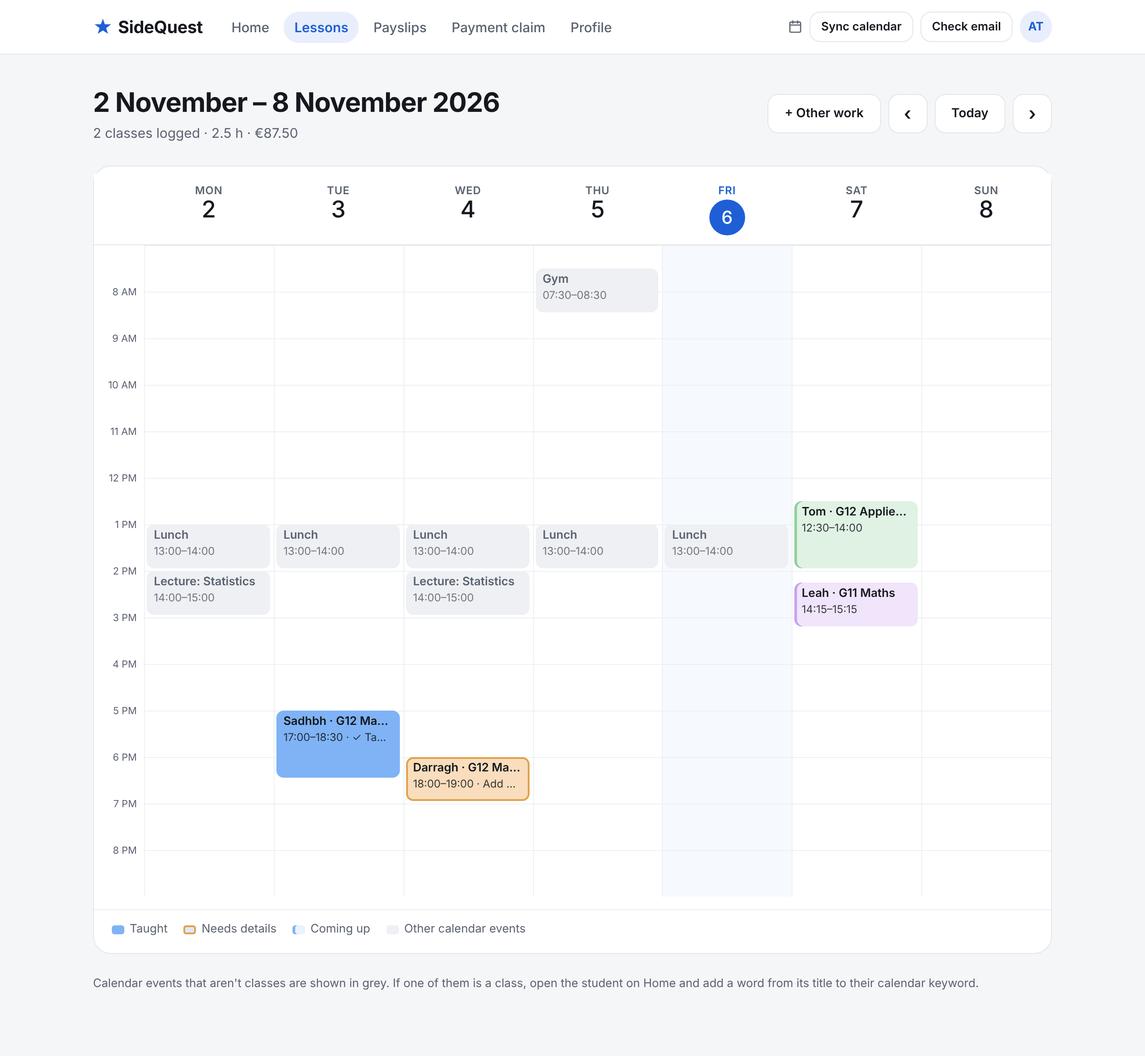
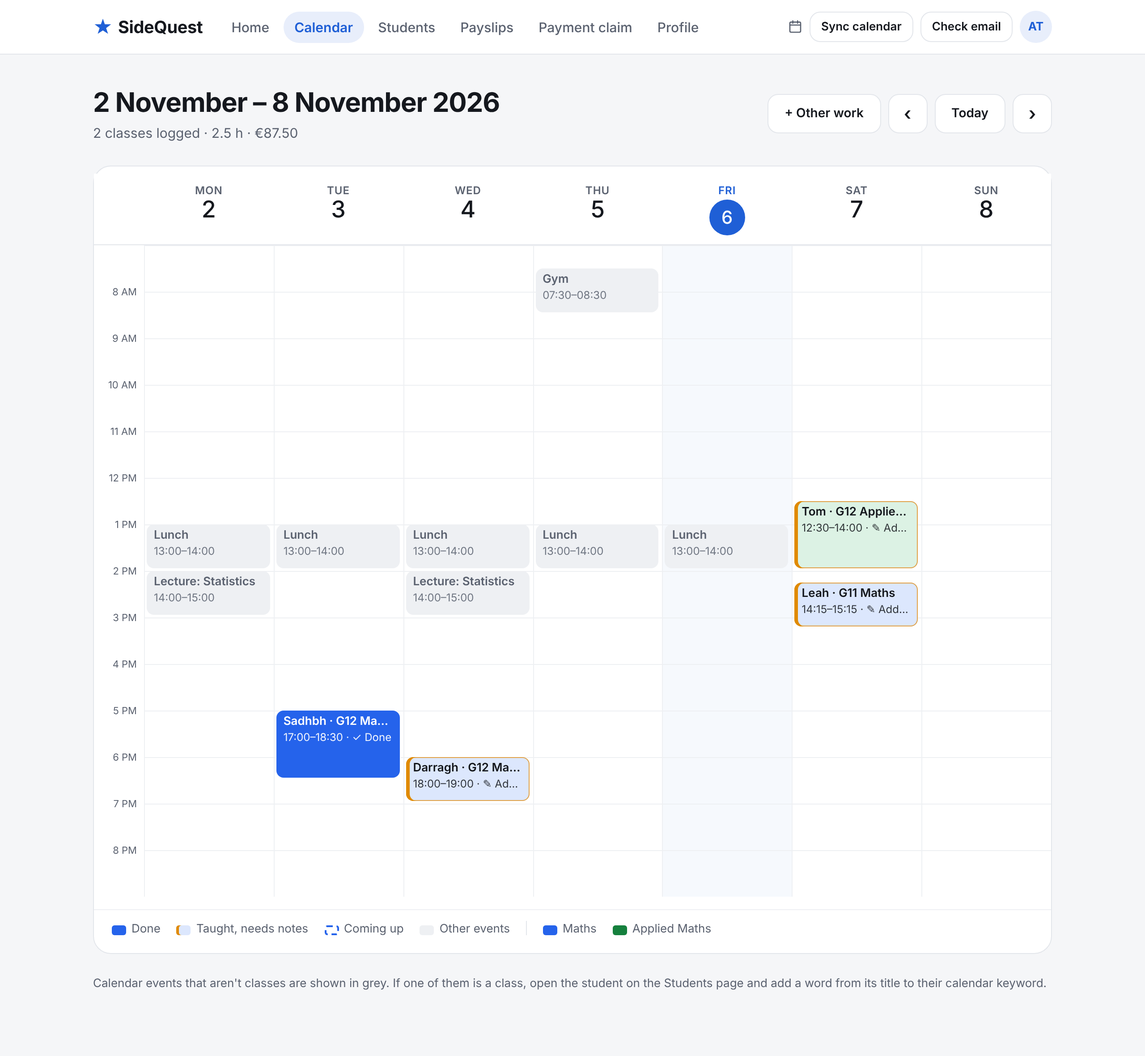
Fix two-subject matching, payslip PDF search, repeating to-dos; Calendar and Students tabs; subject colours
- Weekly email lines for a student taking two subjects now match the right subject
- Admin-paid items you didn't log get an 'Add it to my lessons' button
- Find old payslip PDFs searches every email with a payslip PDF and reports months
- Package reminders are created once; existing duplicates are removed
- Lessons renamed to Calendar; Students has its own tab
- Calendar colours by subject; done / needs notes / coming up are clearly different
- Homework, to-do and description boxes grow as you type

Claude-Session: https://claude.ai/code/session_01XxMEUz4XwJvpnkHxQYktTi

diff --git a/src/web/app.js b/src/web/app.js
@@ -128,14 +128,15 @@ function packageAlerts() {
     .filter(x => x.p && x.p.left >= 0 && (x.p.lastDate ? x.p.lastDate <= L.addDays(TODAY, 7) : x.p.left <= 1));
 }
 // Package ending soon → two real, tickable to-dos (created once per package)
-let pkgSyncing = false;
+let pkgSyncing = false; const pkgMade = new Set(); // never create the same reminder twice, even before the Sheet answers
 async function ensurePackageTodos() {
   if (pkgSyncing || !loaded) return; pkgSyncing = true;
   for (const { s, p } of packageAlerts()) {
     const when = p.lastDate ? `last class ${fmtD(p.lastDate, { weekday: "short", day: "numeric", month: "short" })}` : p.left ? "1 lesson left" : "package finished";
     for (const [k, text] of [["exam", `Prepare an exam for ${s.name} (${s.subject.replace(/\s*\(H\)/, "")})`], ["report", `Write ${s.name}'s student report`]]) {
       const key = `${k}-${p.key}`;
-      if (!S.todos.some(t => t.key === key)) await save("todos", "auto-" + uid(), { text: `${text} · ${when}`, done: false, createdAt: new Date().toISOString(), key });
+      if (pkgMade.has(key) || S.todos.some(t => t.key === key)) continue;
+      pkgMade.add(key); await save("todos", "auto-" + uid(), { text: `${text} · ${when}`, done: false, createdAt: new Date().toISOString(), key });
     }
   }
   pkgSyncing = false;
@@ -143,7 +144,11 @@ async function ensurePackageTodos() {
 function todos() {
   const out = [];
   CAL.orphans.forEach(id => { const l = S.lessons.find(x => x.id === id); if (l) out.push({ id: "or-" + id, act: "open", lid: id, title: `${nameOf(l)}'s ${fmtD(l.date)} class is no longer in your calendar`, sub: "Was it cancelled or moved?", warn: true }); });
-  S.todos.filter(t => !t.done).sort((a, b) => String(b.createdAt).localeCompare(String(a.createdAt))).forEach(t => out.push({ id: "my-" + t.id, act: "mine", tid: t.id, title: t.text, sub: "Your to-do" }));
+  const seenTodo = new Set();
+  S.todos.filter(t => !t.done).sort((a, b) => String(a.createdAt).localeCompare(String(b.createdAt))).forEach(t => {
+    const k = t.key || t.text.trim().toLowerCase(); if (seenTodo.has(k)) return; seenTodo.add(k); // each to-do shows once
+    out.push({ id: "my-" + t.id, act: "mine", tid: t.id, title: t.text, sub: t.key ? "Package ending" : "Your to-do" });
+  });
   S.lessons.filter(l => l.followups && !l.followupsDone).sort((a, b) => b.date.localeCompare(a.date))
     .forEach(l => out.push({ id: "fu-" + l.id, act: "fudone", lid: l.id, title: l.followups.split("\n")[0], sub: `${nameOf(l)} · ${fmtD(l.date)}` }));
   S.lessons.filter(l => l.kind === "class" && l.date <= TODAY && l.date >= L.addDays(TODAY, -21) && !l.topic && !l.notes)
@@ -161,7 +166,7 @@ function render() {
   const main = $("#main");
   if (loadErr) { main.innerHTML = `<div class="card empty">SideQuest couldn't read your Sheet. ${esc(loadErr)}<br><button class="btn" data-act="reload">Try again</button></div>`; return; }
   if (!loaded) { main.innerHTML = `<div class="loading"><div class="sk big"></div><div class="sk"></div><div class="sk"></div></div>`; return; }
-  main.innerHTML = ({ home: vHome, lessons: vLessons, payslips: vPayslips, claim: vClaim, profile: vProfile })[view]();
+  main.innerHTML = ({ home: vHome, lessons: vLessons, students: vStudents, payslips: vPayslips, claim: vClaim, profile: vProfile })[view]();
   applyTheme(); growAll(main);
   if (loaded) setTimeout(ensurePackageTodos, 0);
 }
@@ -224,23 +229,31 @@ function vHome() {
   <section class="card"><div class="row-b"><h2>Pay periods</h2><div class="muted small">Earned ${eur(earned)} · Paid ${eur(paid)} · <b class="ink">Owed ${eur(earned - paid)}</b></div></div>
     <div class="periods">${strip}</div></section>
   <section class="split3">
-    <div class="card"><div class="row-b"><h2>Coming up</h2><button class="link" data-act="nav" data-v="lessons">All lessons</button></div>
+    <div class="card"><div class="row-b"><h2>Coming up</h2><button class="link" data-act="nav" data-v="lessons">Open calendar</button></div>
       ${up.length ? up.map(p => { const s = stu(p.studentId); return `<div class="li"><div class="date"><span>${dow(p.date)}</span><b>${+p.date.slice(8)}</b></div><div class="grow"><b>${esc(s?.name)} · ${esc((s?.subject || "").replace(/\s*\(H\)/, ""))}</b><div class="muted small">${esc(p.time)} · ${hrs(p.hours)}${nextNumber(p.studentId) && s?.pkgSize ? ` · lesson ${nextNumber(p.studentId)} of ${s.pkgSize}` : ""}</div></div><div class="num b">${eur(L.round2(p.hours * rateFor("class", p.date, p.studentId)))}</div></div>`; }).join("")
         : `<p class="empty">${CAL.error ? "Connect your calendar to see upcoming lessons." : "Nothing in your calendar for the next two weeks."}</p>`}</div>
     <div class="card"><div class="row-b"><h2>To do</h2>${allTd.length > td.length ? `<span class="muted small">${allTd.length - td.length} more</span>` : ""}</div>
-      <form class="addtodo" data-form="todo"><label for="newtodo" class="sr">New to-do</label><input id="newtodo" placeholder="Add your own to-do, e.g. Make an exam for Sadhbh" autocomplete="off"><button class="btn" type="submit">Add</button></form>
+      <form class="addtodo" data-form="todo"><label for="newtodo" class="sr">New to-do</label><textarea id="newtodo" rows="1" placeholder="Add your own to-do, e.g. Make an exam for Sadhbh"></textarea><button class="btn" type="submit">Add</button></form>
       ${td.length ? td.map(t => `<div class="li">${t.act === "fudone" || t.act === "mine" ? `<input type="checkbox" aria-label="Done" data-act="${t.act === "mine" ? "minedone" : "fudone"}" data-lid="${esc(t.lid || "")}" data-tid="${esc(t.tid || "")}">` : `<span class="dot ${t.warn ? "warn" : ""}" aria-hidden="true"></span>`}<button class="todo grow" data-act="todo" data-t="${esc(t.act)}" data-lid="${esc(t.lid || "")}" data-sid="${esc(t.sid || "")}" data-pid="${esc(t.pid || "")}"><b>${esc(t.title)}</b><br><span class="muted small">${esc(t.sub)}</span></button></div>`).join("")
         : `<p class="empty">All done.</p>`}
       <p class="muted small">Comes from your own to-dos, your notes' "To do after class", classes still missing notes, and exam + report reminders when a package is ending.</p></div>
-  </section>
-  ${studentsCard()}`;
+  </section>`;
 }
 
 // ---- Lessons: a calendar week like Google Calendar ----
 const WEEKS = {}; // monday → {events, error, loading}
 const HOUR_PX = 52;
-const COLORS = ["c1", "c2", "c3", "c4", "c5", "c6"];
-const colorOf = sid => COLORS[Math.max(0, S.students.findIndex(s => s.id === sid)) % COLORS.length];
+// One colour per subject (Maths blue, Applied Maths green, others after that), the same everywhere
+const COLORS = ["c1", "c3", "c2", "c4", "c5", "c6"];
+const subjectKey = sub => String(sub || "").toLowerCase().replace(/\(h\)|\(o\)|\bg\d+\b|\b1v1\b|leaving cert|junior cycle/g, "").replace(/\bmath\b/g, "maths").replace(/\s+/g, " ").trim() || "other";
+const subjectName = sub => subjectKey(sub).replace(/\b\w/g, c => c.toUpperCase());
+function subjectColor(sub) {
+  const k = subjectKey(sub);
+  if (k === "maths") return "c1"; if (k.includes("applied")) return "c3";
+  const others = [...new Set(S.students.map(s => subjectKey(s.subject)).filter(x => x !== "maths" && !x.includes("applied")))].sort();
+  return COLORS[2 + (Math.max(0, others.indexOf(k)) % 4)];
+}
+const colorOf = sid => subjectColor(stu(sid)?.subject);
 const toMin = t => { const [h, m] = String(t || "0:0").split(":").map(Number); return h * 60 + (m || 0); };
 const fromMin = m => `${String(Math.floor(m / 60)).padStart(2, "0")}:${String(m % 60).padStart(2, "0")}`;
 async function loadWeek(ws, force) {
@@ -288,9 +301,9 @@ function blockHtml(b, h0) {
   if (b.other) return `<div class="ev other" style="${pos}" title="${esc(b.title)}"><b>${esc(b.title)}</b><span>${tm}</span></div>`;
   const s = stu(b.studentId), l = b.lesson;
   const subj = esc((s?.subject || "").replace(/\s*\(H\)/, ""));
-  let state = "plan", note = "";
-  if (l) { state = l.kind === "cancelled" ? "cx" : (l.topic || l.notes || l.source === "history") ? "done" : "need"; note = l.kind === "cancelled" ? "Cancelled" : l.kind === "noshow" ? "No-show" : state === "need" ? "Add details" : "✓ Taught"; }
-  else if (hasStarted(b.planned)) { state = "need"; note = "Add details"; }
+  let state = "plan", note = "Coming up";
+  if (l) { state = l.kind === "cancelled" ? "cx" : (l.topic || l.notes || l.source === "history") ? "done" : "need"; note = l.kind === "cancelled" ? "Cancelled" : l.kind === "noshow" ? "✓ No-show" : state === "need" ? "✎ Add notes" : "✓ Done"; }
+  else if (hasStarted(b.planned)) { state = "need"; note = "✎ Add notes"; }
   const act = l ? `data-act="pick" data-lid="${l.id}"` : `data-act="pickplan" data-eid="${esc(b.planned.eventId)}"`;
   return `<button class="ev ${colorOf(b.studentId)} ${state}" style="${pos}" ${act}><b>${esc(s?.name || "?")} · ${subj}</b><span>${tm}${note ? " · " + note : ""}</span></button>`;
 }
@@ -303,6 +316,12 @@ function studentsCard() {
         <span class="muted small">${s.pkgSize ? `${d} of ${s.pkgSize} · ` : ""}${esc(s.subject.replace(/\s*\(H\)/, ""))}</span></button>`;
     }).join("")}</div>
   </section>`;
+}
+function vStudents() {
+  const inactive = S.students.filter(s => !s.active);
+  return `<div><h1>Students</h1><div class="muted">Click a student to see every class with your notes, or to change their details.</div></div>
+  ${studentsCard()}
+  ${inactive.length ? `<section class="card"><h2>Finished</h2><div class="studs">${inactive.map(s => `<button class="stud" data-act="student" data-sid="${s.id}"><b>${esc(s.name)}</b><span class="muted small">${esc(s.subject.replace(/\s*\(H\)/, ""))}</span></button>`).join("")}</div></section>` : ""}`;
 }
 function vLessons() {
   const we = L.addDays(weekStart, 6);
@@ -326,8 +345,8 @@ function vLessons() {
     </div></div></div>`;
   return `<div class="row-b"><div><h1>${title}</h1><div class="muted">${ls.length} class${ls.length === 1 ? "" : "es"} logged · ${hrs(sum(ls, l => +l.hours || 0))} · ${eur(sum(ls, L.amountOf))}${W.loading ? " · loading your calendar…" : W.error ? " · calendar not connected, showing usual times" : ""}</div></div>
     <div class="acts"><button class="btn" data-act="other">+ Other work</button><button class="btn sq" data-act="wk" data-n="-7" aria-label="Previous week">‹</button><button class="btn" data-act="wk" data-n="0">Today</button><button class="btn sq" data-act="wk" data-n="7" aria-label="Next week">›</button></div></div>
-  <section class="card flush">${grid}<div class="legend small muted"><span><i class="lg done"></i>Taught</span><span><i class="lg need"></i>Needs details</span><span><i class="lg plan"></i>Coming up</span><span><i class="lg other"></i>Other calendar events</span></div></section>
-  ${CAL.unmatched.length ? `<p class="muted small">Calendar events that aren't classes are shown in grey. If one of them is a class, open the student on Home and add a word from its title to their calendar keyword.</p>` : ""}`;
+  <section class="card flush">${grid}<div class="legend small muted"><span><i class="lg done c1"></i>Done</span><span><i class="lg need c1"></i>Taught, needs notes</span><span><i class="lg plan c1"></i>Coming up</span><span><i class="lg other"></i>Other events</span><span class="sep"></span>${[...new Set(S.students.filter(s => s.active).map(s => subjectKey(s.subject)))].map(k => { const s = S.students.find(x => subjectKey(x.subject) === k); return `<span><i class="lg done ${subjectColor(s.subject)}"></i>${esc(subjectName(s.subject))}</span>`; }).join("")}</div></section>
+  ${CAL.unmatched.length ? `<p class="muted small">Calendar events that aren't classes are shown in grey. If one of them is a class, open the student on the Students page and add a word from its title to their calendar keyword.</p>` : ""}`;
 }
 // A student's past classes, newest first, the way your Excel tabs show them
 function historyTable(sid, opts = {}) {
@@ -346,6 +365,7 @@ function panelModel() {
   if (!sel) return null;
   if (sel.lessonId) { const l = S.lessons.find(x => x.id === sel.lessonId); return l ? { ...l } : null; }
   if (sel.planned) { const p = sel.planned; return { studentId: p.studentId, date: p.date, time: p.time, hours: p.hours, rate: rateFor("class", p.date, p.studentId), kind: "", number: nextNumber(p.studentId), eventId: String(p.eventId).indexOf("slot-") === 0 ? "" : p.eventId, _new: true, _locked: !hasStarted(p) }; }
+  if (sel.fromLine) { const f = sel.fromLine; return { ...f, _new: true, _other: !f.studentId }; }
   if (sel.other) return { studentId: "", label: "", date: TODAY, time: "", hours: 1, rate: rateFor("meeting", TODAY), kind: "meeting", _new: true, _other: true };
   return null;
 }
@@ -364,15 +384,15 @@ function panel() {
   const status = isOther ? `<div class="f2">
       <label class="fld">Type<select id="p_kind">${OTHER_KINDS.map(k => `<option value="${k}" ${k === m.kind ? "selected" : ""}>${KINDS[k]}</option>`).join("")}</select></label>
       <label class="fld">Date<input id="p_date" type="date" value="${esc(m.date)}" max="${TODAY}"></label></div>
-      <label class="fld">Description<input id="p_label" value="${esc(m.label)}" placeholder="e.g. Parent-teacher meeting"></label>`
+      <label class="fld">Description<textarea id="p_label" rows="1" placeholder="e.g. Parent-teacher meeting">${esc(m.label)}</textarea></label>`
     : `<div class="seg" role="group" aria-label="What happened">${["class", "noshow", "cancelled"].map(k => `<button type="button" class="${(m.kind || "") === k ? "on" : ""}" data-act="kind" data-k="${k}">${KINDS[k]}</button>`).join("")}</div>`;
   const pay = `<details class="pay" ${isOther ? "open" : ""}><summary>Pay: ${hrs(m.kind === "cancelled" ? 0 : m.hours)} × ${eur(m.rate)} = <b>${eur(L.amountOf(m))}</b></summary>
     <div class="f3"><label class="fld">Hours<input id="p_hours" type="number" step="0.25" min="0" value="${esc(m.hours)}"></label><label class="fld">Rate €/h<input id="p_rate" type="number" step="0.5" min="0" value="${esc(m.rate)}"></label>${isOther ? "" : `<label class="fld">Lesson #<input id="p_num" type="number" min="0" value="${esc(m.number ?? "")}"></label>`}</div></details>`;
   const notes = isOther ? `<label class="fld">Notes<textarea id="p_notes" rows="3">${esc(m.notes)}</textarea></label>` : `
     <label class="fld">Topic covered<textarea id="p_topic" rows="2" placeholder="e.g. Ch 13: Differential Calculus">${esc(m.topic)}</textarea></label>
-    <label class="fld">Homework<input id="p_hw" value="${esc(m.homework)}" placeholder="e.g. Ex 13.4"></label>
+    <label class="fld">Homework<textarea id="p_hw" rows="1" placeholder="e.g. Ex 13.4">${esc(m.homework)}</textarea></label>
     <label class="fld">Notes<textarea id="p_notes" rows="4" placeholder="How did it go? What's next?">${esc(m.notes)}</textarea></label>
-    <label class="fld">To do after class<input id="p_fu" value="${esc(m.followups)}" placeholder="e.g. Send the notes"></label>`;
+    <label class="fld">To do after class<textarea id="p_fu" rows="1" placeholder="e.g. Send the notes">${esc(m.followups)}</textarea></label>`;
   const autoNote = sel.planned && sel.planned.started && !CAL.error ? `<p class="muted small">If you leave it, it's marked taught after it ends, but it only goes on your Payment Claim once you add details.</p>` : m.source === "calendar" && !m.topic && !m.notes && m.kind === "class" ? `<p class="muted small">Logged from your calendar. Add details to put it on your Payment Claim.</p>` : "";
   return `${head}${orphan}${status}${notes}${pay}${autoNote}
     <div class="acts end">${!m._new ? `<button class="btn ghost danger" data-act="dellesson" data-lid="${m.id}">Delete</button>` : ""}<button class="btn ghost" data-act="close">Cancel</button><button class="btn primary" data-act="savelesson">Save</button></div>`;
@@ -524,7 +544,7 @@ function issuesDlg() {
   const g = issues();
   openDlg(`<h2>Pay problems</h2><p class="muted small">Only things that change what you're paid are listed here.</p>
     ${g.length ? g.map(x => `<div class="grp"><div class="row-b"><b>${esc(x.title)}</b><span class="acts">${x.stmt ? `<button class="btn ghost" data-act="draft" data-id="${x.key}">Draft email</button><button class="btn ghost" data-act="sorted" data-id="${x.key}">Mark sorted</button>` : `<button class="btn ghost" data-act="slipok" data-pid="${x.slipId}">It's fine</button>`}</span></div>
-      <ul>${x.list.map(i => `<li>${i.date ? `<span class="muted">${fmtD(i.date)}</span> ` : ""}${esc(i.text)}${i.lessonId ? ` <button class="link" data-act="openlesson" data-lid="${i.lessonId}">Open lesson</button>` : ""}</li>`).join("")}</ul></div>`).join("") : `<p class="empty">Nothing to look at.</p>`}
+      <ul>${x.list.map(i => `<li>${i.date ? `<span class="muted">${fmtD(i.date)}</span> ` : ""}${esc(i.text)}${i.lessonId ? ` <button class="link" data-act="openlesson" data-lid="${i.lessonId}">Open lesson</button>` : ""}${i.line ? ` <button class="link" data-act="fromline" data-g="${esc(x.key)}" data-i="${x.list.indexOf(i)}">Add it to my lessons</button>` : ""}</li>`).join("")}</ul></div>`).join("") : `<p class="empty">Nothing to look at.</p>`}
     <div class="acts end"><button class="btn" data-act="close">Close</button></div>`);
 }
 function draftDlg(id) {
@@ -540,7 +560,7 @@ function studentDlg(s) {
       ${fld("s_n", "Name", s.name, "text", "required")}${fld("s_sub", "Subject", s.subject, "text", 'placeholder="G12 Maths (H)"')}${fld("s_k", "Calendar keyword", s.calKeyword ?? s.name, "text", 'placeholder="Word(s) in the calendar event title"')}
       ${fld("s_c", "Course code (admin's emails)", s.code, "text", 'placeholder="IE1042"')}${fld("s_h", "Usual lesson length (h)", s.hours ?? 1, "number", 'step="0.25" min="0"')}${fld("s_r", "Own rate €/h (optional)", s.ownRate, "number", 'step="0.5" min="0" placeholder="Uses your Profile rate"')}
       ${fld("s_p", "Package size (lessons)", s.pkgSize, "number", 'min="0"')}
-      <label class="fld span2">Notes<input id="s_notes" value="${esc(s.notes)}"></label>
+      <label class="fld span2">Notes<textarea id="s_notes" rows="1">${esc(s.notes)}</textarea></label>
       <label class="chk span3"><input type="checkbox" id="s_a" ${s.active !== false ? "checked" : ""}> Currently teaching</label>
     </form>
     <div class="acts end">${s.id ? `<button class="btn ghost danger" data-act="delstu" data-sid="${s.id}">Delete</button>` : ""}<button class="btn ghost" data-act="close">Cancel</button><button class="btn primary" data-act="savestu" data-sid="${s.id || ""}">Save</button></div>
@@ -580,6 +600,13 @@ document.addEventListener("click", async e => {
   if (a === "claimf") { claimFilter = D.k; return render(); }
   if (a === "period") { selPeriod = D.k; if (view !== "payslips") { view = "payslips"; scrollTo(0, 0); } return render(); }
   if (a === "wk") { weekStart = +D.n === 0 ? L.mondayOf(TODAY) : L.addDays(weekStart, +D.n); sel = null; panelKind = null; return render(); }
+  if (a === "fromline") {
+    const g = issues().find(x => x.key === D.g), it = g && g.list[+D.i]; if (!it) return;
+    const ln = it.line, looksOther = /meeting|parent|report|prep|trial/i.test(ln.label) || !it.studentId;
+    sel = { fromLine: { studentId: looksOther ? "" : it.studentId, date: ln.date, time: ln.time || "", hours: ln.hours, rate: ln.rate, kind: looksOther ? (/trial/i.test(ln.label) ? "demo" : "meeting") : "class",
+      label: looksOther ? ln.label.replace(/Lesson\(\d+\)-\d+\s*/, "").replace(/\b(IE\d+|T\d+)\b\s*/, "").trim() : "", number: looksOther ? null : ln.counter, notes: "Added from admin's weekly email." } };
+    panelKind = null; return openPanel();
+  }
   if (a === "pick") { sel = { lessonId: D.lid }; panelKind = null; return openPanel(); }
   if (a === "pickplan") { const b = weekBlocks(weekStart).blocks.find(x => x.planned && x.planned.eventId === D.eid); if (!b) return; sel = { planned: b.planned }; panelKind = null; return openPanel(); }
   if (a === "other") { sel = { other: true }; panelKind = null; return openPanel(); }
@@ -617,7 +644,11 @@ document.addEventListener("click", async e => {
     if (D.t === "mine") return;
   }
   if (a === "fudone") { const l = S.lessons.find(x => x.id === D.lid); return save("lessons", l.id, { ...strip(l), followupsDone: true }); }
-  if (a === "minedone") { const x = S.todos.find(y => y.id === D.tid); return save("todos", x.id, { ...strip(x), done: true }); }
+  if (a === "minedone") {
+    const x = S.todos.find(y => y.id === D.tid), k = x.key || x.text.trim().toLowerCase();
+    for (const y of S.todos.filter(y => !y.done && (y.key || y.text.trim().toLowerCase()) === k)) await save("todos", y.id, { ...strip(y), done: true });
+    return;
+  }
   if (a === "orphankeep") { const l = S.lessons.find(x => x.id === D.lid); CAL.orphans = CAL.orphans.filter(i => i !== l.id); dlg().close(); await save("lessons", l.id, { ...strip(l), eventId: "kept" }); return toast("Kept"); }
   if (a === "orphandel") { CAL.orphans = CAL.orphans.filter(i => i !== D.lid); sel = null; dlg().close(); await remove("lessons", D.lid); return toast("Removed"); }
   if (a === "theme") { PROFILE.theme = D.k; applyTheme(); t.parentElement.querySelectorAll("button").forEach(b => b.classList.toggle("on", b === t)); try { await gs("api_saveProfile", { theme: D.k }); } catch (er) { toast("Couldn't save the theme: " + (er.message || er)); } return; }
@@ -640,7 +671,7 @@ document.addEventListener("click", async e => {
   }
   if (a === "received") { const s = S.payslips.find(x => x.id === D.pid); await save("payslips", s.id, { ...strip(s), receivedDate: TODAY }); return toast("Marked as arrived today. Click Edit to change the date."); }
   if (a === "newslip") { const p = periods().find(x => x.key === (D.k || selPeriod)); return slipDlg({}, p); }
-  if (a === "findold") { t.disabled = true; t.textContent = "Searching your email…"; try { const r = await gs("api_findOldPayslips"); applyAll(r.data); toast(r.result.found ? `Found ${r.result.found} payslip PDF${r.result.found > 1 ? "s" : ""}: linked ${r.result.linked}, added ${r.result.added}.` : "No payslip PDFs found in your email.", 6000); } catch (er) { toast("Search failed: " + (er.message || er)); } t.disabled = false; t.textContent = "Find old payslip PDFs"; return; }
+  if (a === "findold") { t.disabled = true; t.textContent = "Searching your email…"; try { const r = await gs("api_findOldPayslips"); applyAll(r.data); toast(r.result.found ? `Found ${r.result.found} payslip PDF${r.result.found > 1 ? "s" : ""} in your email.${r.result.months.length ? " Added: " + r.result.months.join(", ") + "." : ""}${r.result.already.length ? " Already had: " + r.result.already.join(", ") + "." : ""}` : "No emails with a payslip PDF were found in this Gmail account.", 9000); } catch (er) { toast("Search failed: " + (er.message || er)); } t.disabled = false; t.textContent = "Find old payslip PDFs"; return; }
   if (a === "editslip") return slipDlg(S.payslips.find(x => x.id === D.pid));
   if (a === "reread") { t.disabled = true; t.textContent = "Reading…"; try { applyAll(await gs("api_rereadSlip", D.pid)); const p = S.payslips.find(x => x.id === D.pid); toast(p && !p.needsCheck ? "Read it: " + eur(p.gross) + " gross" : "Still couldn't read it. Type the amounts in instead."); } catch (er) { toast("Couldn't read it: " + (er.message || er)); } return; }
   if (a === "fillslip") {
@@ -681,6 +712,7 @@ document.addEventListener("submit", async e => {
   const i = $("#newtodo"), text = i.value.trim(); if (!text) return;
   await save("todos", "t-" + uid(), { text, done: false, createdAt: new Date().toISOString() }); toast("Added");
 });
+document.addEventListener("keydown", e => { if (e.target.id === "newtodo" && e.key === "Enter" && !e.shiftKey) { e.preventDefault(); e.target.form.requestSubmit(); } });
 document.addEventListener("keydown", e => { if (e.key === "Enter" && e.target.matches("tr[data-act]")) e.target.click(); });
 document.addEventListener("input", e => {
   if (!e.target.closest("#panel") || !["p_hours", "p_rate"].includes(e.target.id)) return;

diff --git a/src/web/shell.html b/src/web/shell.html
@@ -119,7 +119,7 @@ tbody tr[data-act] { cursor: pointer; } tbody tr[data-act]:hover { background: v
 tr.grp-h td { background: var(--bg); border-top: 1px solid var(--line); padding-block: 10px; }
 table.claim td { padding-block: 10px; }
 .note.lock { background: var(--open-soft); color: var(--open); }
-.addtodo { display: flex; gap: 8px; } .addtodo input { flex: 1; min-width: 0; font: 400 15px var(--f-body); color: var(--ink); padding: 10px 12px; border: 1px solid var(--line); border-radius: 12px; background: var(--soft); }
+.addtodo { display: flex; gap: 8px; align-items: flex-start; } .addtodo textarea { flex: 1; min-width: 0; font: 400 15px var(--f-body); color: var(--ink); padding: 10px 12px; border: 1px solid var(--line); border-radius: 12px; background: var(--soft); }
 .dot { width: 20px; flex: none; display: flex; justify-content: center; } .dot::before { content: ""; width: 8px; height: 8px; border-radius: 50%; background: var(--line); } .dot.warn::before { background: var(--due-line); }
 .sr { position: absolute; width: 1px; height: 1px; overflow: hidden; clip: rect(0 0 0 0); }
 /* Avatar */
@@ -143,14 +143,19 @@ table.claim td { padding-block: 10px; }
 .ev { position: absolute; border-radius: 8px; padding: 4px 8px; text-align: left; font: inherit; font-size: 12px; line-height: 1.3; overflow: hidden; border: 0; display: flex; flex-direction: column; gap: 1px; cursor: pointer; color: #13161B; box-shadow: 0 0 0 1px var(--surface); }
 .ev b { font-weight: 600; font-size: 13px; overflow: hidden; text-overflow: ellipsis; white-space: nowrap; flex: none; } .ev span { opacity: .85; white-space: nowrap; overflow: hidden; text-overflow: ellipsis; }
 .ev:hover { filter: brightness(.96); z-index: 3; } .ev:focus-visible { z-index: 3; }
-.ev.c1 { --c: #7FB3F5; } .ev.c2 { --c: #F2B36B; } .ev.c3 { --c: #8FD19E; } .ev.c4 { --c: #C9A2F0; } .ev.c5 { --c: #F29BA8; } .ev.c6 { --c: #7FD3D0; }
-.chip.c1 { background: #DCE9FC; } .chip.c2 { background: #FCEBD6; } .chip.c3 { background: #DDF2E2; } .chip.c4 { background: #EEE2FB; } .chip.c5 { background: #FCE1E5; } .chip.c6 { background: #DBF2F1; }
-.ev.done { background: var(--c); } .ev.need { background: color-mix(in srgb, var(--c) 45%, var(--surface)); box-shadow: inset 0 0 0 2px var(--due-line); color: var(--ink); }
-.ev.plan { background: color-mix(in srgb, var(--c) 28%, var(--surface)); box-shadow: inset 3px 0 0 var(--c); color: var(--ink); } .ev.cx { background: var(--open-soft); color: var(--muted); text-decoration: line-through; }
+/* Subject colours: --c strong, --cl light */
+.c1 { --c: #2563EB; --cl: #DCE7FD; } .c2 { --c: #C2410C; --cl: #FCE6D8; } .c3 { --c: #15803D; --cl: #DCF2E4; } .c4 { --c: #7C3AED; --cl: #ECE3FD; } .c5 { --c: #BE185D; --cl: #FBE0EC; } .c6 { --c: #0F766E; --cl: #D4F0EC; }
+.chip.c1, .chip.c2, .chip.c3, .chip.c4, .chip.c5, .chip.c6 { background: var(--cl); }
+/* Done: solid subject colour. Needs notes: light with an amber edge. Coming up: white with a dashed outline. */
+.ev.done { background: var(--c); color: #fff; } .ev.done span { opacity: .92; }
+.ev.need { background: var(--cl); color: #13161B; box-shadow: inset 4px 0 0 #E08A00, inset 0 0 0 1px #E0A24A; }
+.ev.plan { background: var(--surface); color: var(--c); box-shadow: none; outline: 2px dashed var(--c); outline-offset: -2px; } .ev.plan span { color: var(--muted); opacity: 1; }
+.ev.cx { background: var(--open-soft); color: var(--muted); text-decoration: line-through; }
 .ev.other { background: var(--open-soft); color: var(--muted); cursor: default; box-shadow: none; } .ev.other:hover { filter: none; }
 .nowline { position: absolute; left: 0; right: 0; height: 2px; background: #E5484D; z-index: 4; } .nowline::before { content: ""; position: absolute; left: -5px; top: -4px; width: 10px; height: 10px; border-radius: 50%; background: #E5484D; }
 .legend { display: flex; gap: 18px; flex-wrap: wrap; padding: 12px 20px 8px; border-top: 1px solid var(--line2); } .legend span { display: inline-flex; align-items: center; gap: 6px; }
-.lg { width: 14px; height: 10px; border-radius: 3px; display: inline-block; } .lg.done { background: #7FB3F5; } .lg.need { background: #DCE9FC; box-shadow: inset 0 0 0 2px var(--due-line); } .lg.plan { background: #EAF2FD; box-shadow: inset 3px 0 0 #7FB3F5; } .lg.other { background: var(--open-soft); }
+.lg { width: 16px; height: 11px; border-radius: 3px; display: inline-block; } .lg.done { background: var(--c); } .lg.need { background: var(--cl); box-shadow: inset 3px 0 0 #E08A00; } .lg.plan { background: var(--surface); outline: 2px dashed var(--c); outline-offset: -2px; } .lg.other { background: var(--open-soft); }
+.legend .sep { width: 1px; height: 16px; background: var(--line); }
 .panel-d { display: flex; flex-direction: column; gap: 14px; } .panel-d h2 { margin-top: -6px; }
 /* Excel-like history */
 .xl { overflow: auto; border: 1px solid var(--line); border-radius: 12px; max-height: 62vh; }
@@ -173,7 +178,7 @@ textarea { overflow: hidden; resize: none; min-height: 44px; }
 .claim tr.row td:first-child { box-shadow: inset 4px 0 0 var(--bandc); } .claim tr.b0 { --bandc: #7FA4EE; } .claim tr.b1 { --bandc: #6CC394; } .claim tr.b2 { --bandc: #F0B160; } .claim tr.b3 { --bandc: #B394E6; }
 .claim tr.row.odd td { background: var(--soft); } .claim tr.row:hover td { background: var(--sel); }
 .sdot { display: inline-block; width: 10px; height: 10px; border-radius: 50%; margin-right: 8px; vertical-align: 0; }
-.sdot.c1 { background: #7FB3F5; } .sdot.c2 { background: #F2B36B; } .sdot.c3 { background: #8FD19E; } .sdot.c4 { background: #C9A2F0; } .sdot.c5 { background: #F29BA8; } .sdot.c6 { background: #7FD3D0; } .sdot.cx { background: var(--line); }
+.sdot { background: var(--c); } .sdot.cx { background: var(--line); }
 :root[data-theme="dark"] .claim tr.grp-h td { background: var(--soft); }
 @media (max-width: 900px) { .two { grid-template-columns: 1fr; } }
 .welcome ol { margin: 0; padding-left: 20px; display: flex; flex-direction: column; gap: 10px; } .welcome h1 { margin-top: -6px; }
@@ -198,7 +203,7 @@ dialog ul { margin: 8px 0 0; padding-left: 18px; display: flex; flex-direction: 
 <body>
 <header><div class="wrap top">
   <div class="brand"><svg width="22" height="22" viewBox="0 0 24 24" aria-hidden="true" style="vertical-align:-4px;margin-right:6px"><path d="M12 2l2.4 6.9H22l-6 4.6 2.3 7L12 16.3 5.7 20.5 8 13.5 2 8.9h7.6z" fill="var(--accent)"/></svg>SideQuest</div>
-  <nav><button data-act="nav" data-v="home">Home</button><button data-act="nav" data-v="lessons">Lessons</button><button data-act="nav" data-v="payslips">Payslips</button><button data-act="nav" data-v="claim">Payment claim</button><button data-act="nav" data-v="profile">Profile</button></nav>
+  <nav><button data-act="nav" data-v="home">Home</button><button data-act="nav" data-v="lessons">Calendar</button><button data-act="nav" data-v="students">Students</button><button data-act="nav" data-v="payslips">Payslips</button><button data-act="nav" data-v="claim">Payment claim</button><button data-act="nav" data-v="profile">Profile</button></nav>
   <div class="tools"><span id="sync"></span><button class="btn small-b" data-act="sync">Sync calendar</button><button class="btn small-b" data-act="runnow">Check email</button><button class="avatar" id="me" data-act="nav" data-v="profile" aria-label="Profile"></button></div>
 </div></header>
 <div class="wrap"><main id="main"></main></div>

diff --git a/src/server/Code.js b/src/server/Code.js
@@ -84,6 +84,7 @@ function setup() {
   ScriptApp.getProjectTriggers().filter(t => t.getHandlerFunction() === "runCheck").forEach(t => ScriptApp.deleteTrigger(t));
   [ScriptApp.WeekDay.MONDAY, ScriptApp.WeekDay.TUESDAY].forEach(d =>
     ScriptApp.newTrigger("runCheck").timeBased().onWeekDay(d).atHour(9).inTimezone(TZ).create());
+  dedupeTodos_();
   const removed = cleanupPayslips_();
   if (!getSettings_().oldPayslipsSearched) { try { findOldPayslips_(); } catch (e) {} }
   if (removed) { try { runCheck(); } catch (e) {} } // re-read those emails as weekly statements
@@ -189,6 +190,9 @@ function api_getAll() {
   const cal = withLock_(syncCalendar_);
   const st = getSettings_(), profile = {};
   PROFILE_KEYS.forEach(k => profile[k] = st[k] || "");
+  const todos = readRows_("Todos");
+  const keys = todos.filter(t => !t.done).map(t => t.key || String(t.text).trim().toLowerCase());
+  if (new Set(keys).size < keys.length) withLock_(dedupeTodos_);
   return { ...all_(), todos: readRows_("Todos"), lastRun: st.lastRun || "", today: today_(), now: new Date().toISOString(), calendar: cal, profile, rates: rates_() };
 }
 function api_saveProfile(p) {
@@ -420,6 +424,12 @@ function handlePayslip_(m, body, pdf) {
   };
 }
 
+// Earlier versions could create the same package reminder many times. Keep the first of each.
+function dedupeTodos_() {
+  const seen = {}, rows = readRows_("Todos").sort((a, b) => String(a.createdAt).localeCompare(String(b.createdAt)));
+  rows.forEach(t => { const k = (t.key || String(t.text).trim().toLowerCase()) + (t.done ? "|done" : ""); if (seen[k]) delete_("Todos", t.id); else seen[k] = 1; });
+}
+
 // Earlier versions mistook weekly emails that quote a payslip email for payslips. Remove those empty entries
 // and forget those emails, so the next check reads them again as weekly statements.
 function cleanupPayslips_() {
@@ -434,12 +444,12 @@ function cleanupPayslips_() {
 function findOldPayslips_() {
   const st = getSettings_();
   const senders = String(st.senders || "").split(/[,\s]+/).filter(Boolean).map(s => s.toLowerCase());
-  if (!senders.length) return { found: 0, linked: 0, added: 0 };
-  const q = "(" + senders.map(s => "from:" + s).join(" OR ") + ") has:attachment filename:pdf";
-  const res = { found: 0, linked: 0, added: 0 };
+  // Any email with a payslip PDF, whoever sent it (older payslips sometimes come from a different admin address)
+  const q = "has:attachment filename:pdf (payslip" + senders.map(s => " OR from:" + s).join("") + ")";
+  const res = { found: 0, linked: 0, added: 0, months: [], already: [] };
   const done = {};
-  GmailApp.search(q, 0, 200).forEach(th => th.getMessages().forEach(m => {
-    if (done[m.getId()] || !senders.some(s => m.getFrom().toLowerCase().indexOf(s) >= 0)) return;
+  GmailApp.search(q, 0, 300).forEach(th => th.getMessages().forEach(m => {
+    if (done[m.getId()]) return;
     done[m.getId()] = 1;
     const body = m.getPlainBody() || "";
     const pdf = m.getAttachments({ includeInlineImages: false }).find(a => (/pdf/i.test(a.getContentType()) || /\.pdf$/i.test(a.getName())) && /payslip/i.test(a.getName() + " " + body));
@@ -453,7 +463,9 @@ function findOldPayslips_() {
     const slips = readRows_("Payslips");
     const slip = slips.find(s => period && s.periodEnd === period.end) || slips.find(s => payDate && s.payDate === payDate)
       || slips.find(s => payDate && s.payDate && s.payDate.slice(0, 7) === payDate.slice(0, 7));
-    if (slip && slip.pdfUrl) return;
+    const label = period ? L.periodName(period.start, period.end) : payDate ? L.MONTHS[+payDate.slice(5, 7) - 1] + " (paid)" : pdf.getName();
+    if (slip && slip.pdfUrl) { res.already.push(label); return; }
+    res.months.push(label);
     if (!slip) { handlePayslip_(m, body, pdf); res.added++; upsert_("Processed", { messageId: m.getId(), date: Utilities.formatDate(m.getDate(), TZ, "yyyy-MM-dd HH:mm"), subject: m.getSubject(), type: "payslip", result: "Found by the old-payslips search." }); return; }
     const folderName = st.payslipFolder || "SideQuest payslips";
     const it = DriveApp.getFoldersByName(folderName);

diff --git a/src/shared/logic.js b/src/shared/logic.js
@@ -81,16 +81,25 @@ const L = (() => {
   function matchStatement(p, students, lessons) {
     const inWeek = lessons.filter(l => l.date >= p.week.start && l.date <= p.week.end && PAID_KINDS.includes(l.kind));
     const used = new Set();
-    const studentFor = line => {
-      if (line.code) { const s = students.find(s => s.code && s.code.toUpperCase() === line.code.toUpperCase()); if (s) return s; }
+    // Who a line is for. A course code is exact; otherwise the name, and when two students share a name
+    // (e.g. one person taking Maths and Applied Maths) every one of them is a candidate.
+    const subjWord = t => /appl/i.test(t) ? "applied" : /math/i.test(t) ? "maths" : "";
+    const candidatesFor = line => {
+      if (line.code) { const s = students.filter(s => s.code && s.code.toUpperCase() === line.code.toUpperCase()); if (s.length) return s; }
       const lab = line.label.toLowerCase();
-      return students.find(s => s.name && new RegExp(`\\b${s.name.toLowerCase()}\\b`).test(lab)) || null;
+      const byName = students.filter(s => s.name && new RegExp(`\\b${s.name.toLowerCase()}\\b`).test(lab));
+      if (byName.length < 2) return byName;
+      const sw = subjWord(line.label);
+      return byName.slice().sort((a, b) => (subjWord(b.subject) === sw) - (subjWord(a.subject) === sw)); // same subject first
     };
     const rows = p.lines.map(line => {
-      const st = studentFor(line);
-      let lesson = null;
-      if (st) lesson = inWeek.find(l => !used.has(l.id) && l.studentId === st.id && l.date === line.date);
-      if (!lesson) // one-offs (trials, demos) logged without a student: same date and hours
+      const cands = candidatesFor(line);
+      let lesson = null, st = cands[0] || null;
+      for (const c of cands) {
+        lesson = inWeek.find(l => !used.has(l.id) && l.studentId === c.id && l.date === line.date);
+        if (lesson) { st = c; break; }
+      }
+      if (!lesson) // one-offs (trials, demos, meetings) logged without a student: same date and hours
         lesson = inWeek.find(l => !used.has(l.id) && !l.studentId && l.date === line.date && cents(l.hours) === cents(line.hours))
           || inWeek.find(l => !used.has(l.id) && !l.studentId && l.date === line.date);
       if (lesson) used.add(lesson.id);
@@ -198,7 +207,7 @@ const L = (() => {
     ic.issues.filter(i => i.sev === "bad").forEach(i => out.push({ text: i.text }));
     m.rows.forEach(r => {
       const who = (r.student && r.student.name) || r.line.label.replace(/Lesson\(\d+\)-\d+\s*/, "").replace(/\b(IE\d+|T\d+)\b/, "").trim().slice(0, 40);
-      if (r.status === "extra") out.push({ date: r.line.date, text: `Admin paid ${who} (€${r.line.subtotal.toFixed(2)}) but it isn't in your lessons`, amount: r.line.subtotal });
+      if (r.status === "extra") out.push({ date: r.line.date, text: `Admin paid ${who} (€${r.line.subtotal.toFixed(2)}, ${r.line.hours} h × €${r.line.rate}) but it isn't in your lessons`, amount: r.line.subtotal, line: r.line, studentId: r.student ? r.student.id : "" });
       r.diffs.filter(d => d.sev === "bad").forEach(d => out.push({ date: r.line.date, text: `${who}: ${d.text}` }));
     });
     const nm = l => ((students.find(s => s.id === l.studentId) || {}).name) || l.label || "A lesson";

diff --git a/test/server.test.js b/test/server.test.js
@@ -82,4 +82,12 @@ assert(!iss.some(i => /Row 3|lesson count/.test(i.text))); T("weekly email: cosm
 const P = G.L.buildPeriods("2026-09-01", "2026-11-20", [{ periodStart: "2026-08-31", periodEnd: "2026-09-27" }, { periodStart: "2026-09-28", periodEnd: "2026-11-01" }]);
 assert.strictEqual(P.find(p => p.name === "October").weeks, 5); assert.strictEqual(P.find(p => p.name === "November").start, "2026-11-02"); T("pay periods: a 5-week payslip moves the boundary, the rest follow");
 assert.strictEqual(G.L.periodFor("2026-10-31").name, "November"); T("pay periods: a week counts in the month its Sunday falls in");
+// Same student taking two subjects: admin's line has a course code SideQuest doesn't know yet
+{
+  const st2 = [{ id: "ella-m", name: "Ella", subject: "G12 Maths (H)", code: "IE5001" }, { id: "ella-a", name: "Ella", subject: "G12 Applied Maths (H)", code: "" }];
+  const ls2 = [{ id: "x1", studentId: "ella-a", date: "2026-11-01", hours: 1, rate: 35, kind: "class" }, { id: "x2", studentId: "ella-a", date: "2026-11-01", hours: 1, rate: 35, kind: "class" }];
+  const ln = n => ({ row: n, label: `Lesson(20)-${n} IE5002 Ella 1v1G12AppliedMaths 1v1 Class`, code: "IE5002", date: "2026-11-01", hours: 1, rate: 35, subtotal: 35, duration: 1 });
+  assert.strictEqual(G.L.moneyIssues({ week: { start: "2026-10-26", end: "2026-11-01" }, lines: [ln(1), ln(2)] }, st2, ls2).length, 0);
+  T("a student taking two subjects: admin's lines match the right subject, no false problems");
+}
 console.log("\nall server checks pass");

diff --git a/README.md b/README.md
@@ -35,7 +35,7 @@ Mistakes slip in: a class left off a weekly email, half an hour paid instead of 
 
 | | |
 |---|---|
-| ![Lessons: a calendar week with classes in colour and other events in grey](docs/screenshots/lessons.png) | **Lessons.** Your week, laid out like Google Calendar. Classes are coloured by status: taught, needs notes, coming up. Lunch, lectures and everything else appear in grey. |
+| ![Calendar: a week with classes coloured by subject and other events in grey](docs/screenshots/lessons.png) | **Calendar.** Your week, laid out like Google Calendar. Each subject has its own colour; solid means done, an amber edge means it needs notes, a dashed outline means it's coming up. Lunch, lectures and everything else stay grey. |
 | ![Writing class notes with the student's earlier classes beside the form](docs/screenshots/class-notes.png) | **Class notes.** Mark a class taught, a no-show (half pay to start, editable) or cancelled, and write notes with the student's earlier classes on the right. Future classes just show when they start. |
 | ![Pay problems: an underpaid line and a missing item](docs/screenshots/pay-problems.png) | **Pay problems.** Only differences that affect your money. Each week has a ready-made email to admin. |
 | ![Payslips: every pay period against its payslip](docs/screenshots/payslips.png) | **Payslips.** Each pay period with what you logged, what the payslip says, tax refund, net and when it arrived. Open the PDF in one click. |
